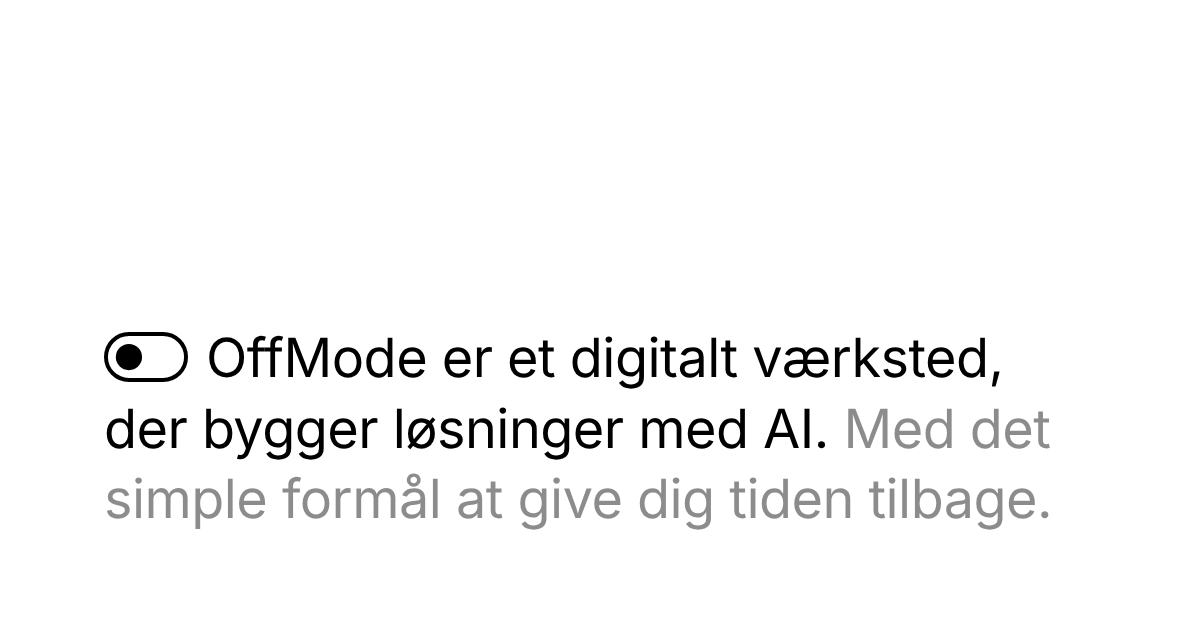
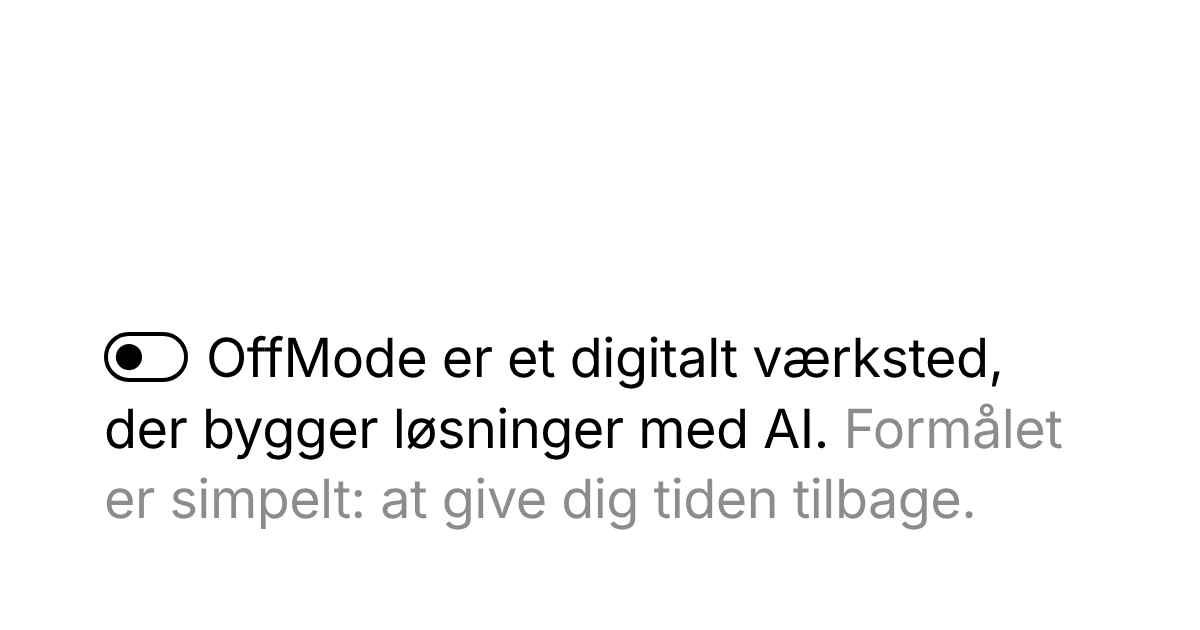
Avoid double 'med' in intro
Claude-Session: https://claude.ai/code/session_01JQ91VV55D3t8mimoyPje74

Changed region(s): [[0.0925, 0.754, 0.8633, 0.8444], [0.7092, 0.6333, 0.8942, 0.7238]]

diff --git a/index.html b/index.html
@@ -4,13 +4,13 @@
 <meta charset="utf-8">
 <meta name="viewport" content="width=device-width, initial-scale=1">
 <title>OffMode – Digitalt værksted, der bygger løsninger med AI</title>
-<meta name="description" content="OffMode er et digitalt værksted, der bygger løsninger med AI. Med det simple formål at give dig tiden tilbage.">
+<meta name="description" content="OffMode er et digitalt værksted, der bygger løsninger med AI. Formålet er simpelt: at give dig tiden tilbage.">
 <meta property="og:type" content="website">
 <meta property="og:site_name" content="OffMode">
 <meta property="og:locale" content="da_DK">
 <meta property="og:url" content="https://offmode.co/">
 <meta property="og:title" content="OffMode – Digitalt værksted, der bygger løsninger med AI">
-<meta property="og:description" content="OffMode er et digitalt værksted, der bygger løsninger med AI. Med det simple formål at give dig tiden tilbage.">
+<meta property="og:description" content="OffMode er et digitalt værksted, der bygger løsninger med AI. Formålet er simpelt: at give dig tiden tilbage.">
 <meta property="og:image" content="https://offmode.co/og.png">
 <meta property="og:image:width" content="1200">
 <meta property="og:image:height" content="630">
@@ -100,7 +100,7 @@
 </head>
 <body>
 <main>
-  <h1 class="intro"><span class="mark"><svg viewBox="0 0 32 19" aria-hidden="true"><rect x="0.75" y="0.75" width="30.5" height="17.5" rx="8.75" fill="none" stroke="currentColor" stroke-width="1.5"/><circle cx="9.5" cy="9.5" r="5" fill="currentColor"/></svg>OffMode</span> er et digitalt værksted, der bygger løsninger med AI. Med det simple formål at give dig tiden tilbage.</h1>
+  <h1 class="intro"><span class="mark"><svg viewBox="0 0 32 19" aria-hidden="true"><rect x="0.75" y="0.75" width="30.5" height="17.5" rx="8.75" fill="none" stroke="currentColor" stroke-width="1.5"/><circle cx="9.5" cy="9.5" r="5" fill="currentColor"/></svg>OffMode</span> er et digitalt værksted, der bygger løsninger med AI. Formålet er simpelt: at give dig tiden tilbage.</h1>
   <a class="cta" href="mailto:kim@offmode.co?subject=Gratis%20snak&amp;body=Hej%20Kim%2C%0A%0AJeg%20bruger%20for%20meget%20tid%20p%C3%A5%20%E2%80%A6%0A%0A">Frigør din tid</a>
   <div class="note">Fra 5.000 kr. ekskl. moms</div>
   <section>
